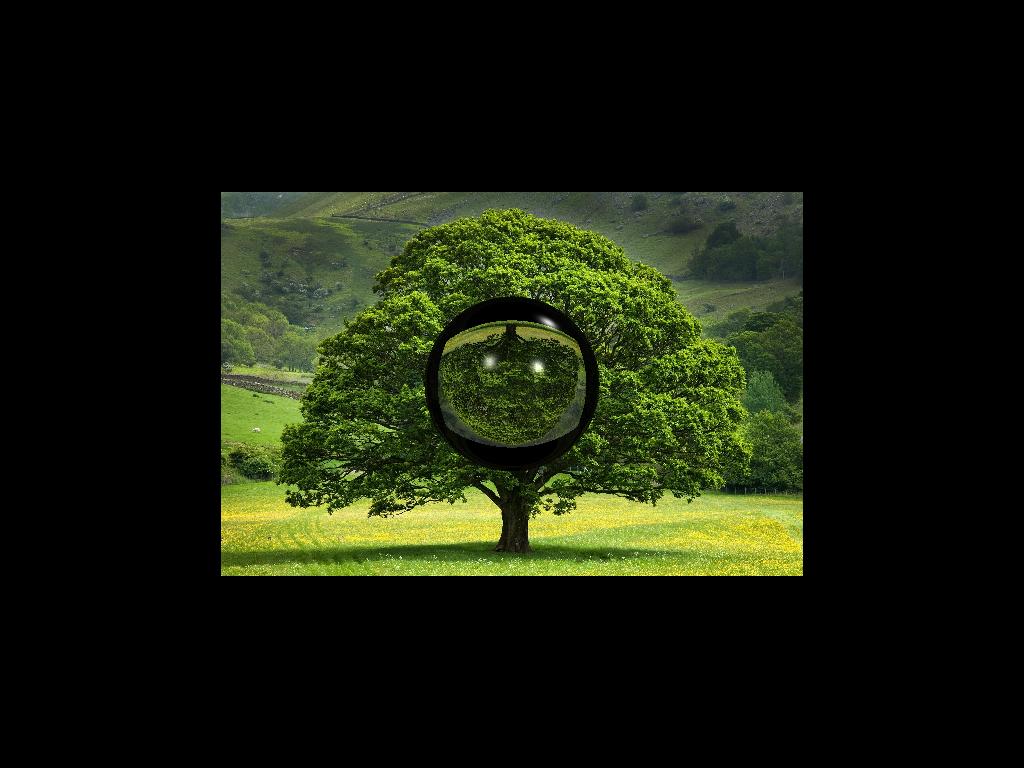
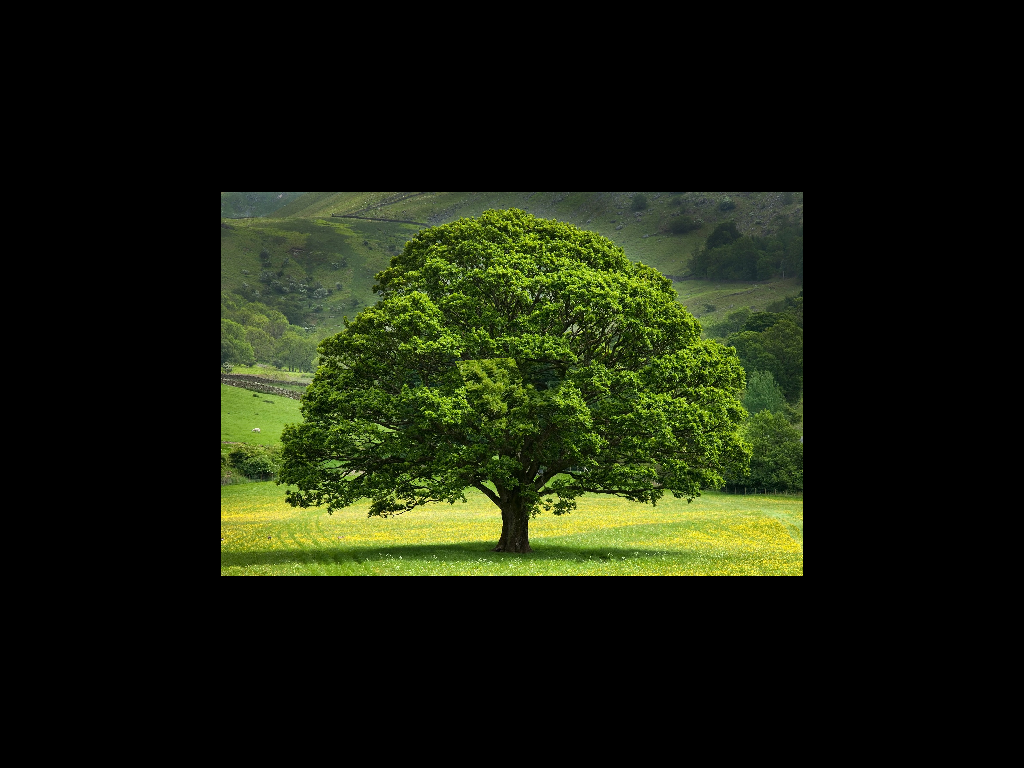
3d model rendered to double check if everything is working

Changed region(s): [[0.4062, 0.375, 0.5938, 0.625]]

diff --git a/main.py b/main.py
@@ -261,7 +261,7 @@ def main(args):
     grayEasy = Material(1.0, (1.0, 0.0, 0.0, 0.0), (0.5, 0.5, 0.5), 0.0)
 
     spheres = []
-    spheres.append(Sphere(np.array([0.0, 0.0, -18]), 4, glass))
+    # spheres.append(Sphere(np.array([0.0, 0.0, -18]), 4, glass))
 
     lights = []
     lights.append(light(np.array([-20, 20, 20]), 1.5))
@@ -270,7 +270,7 @@ def main(args):
 
     print('Lights, and Materials Loaded')
 
-    load_model = False  # Set this to False to skip loading the 3D model
+    load_model = True  # Set this to False to skip loading the 3D model
     renderModel = None
 
     if load_model:
